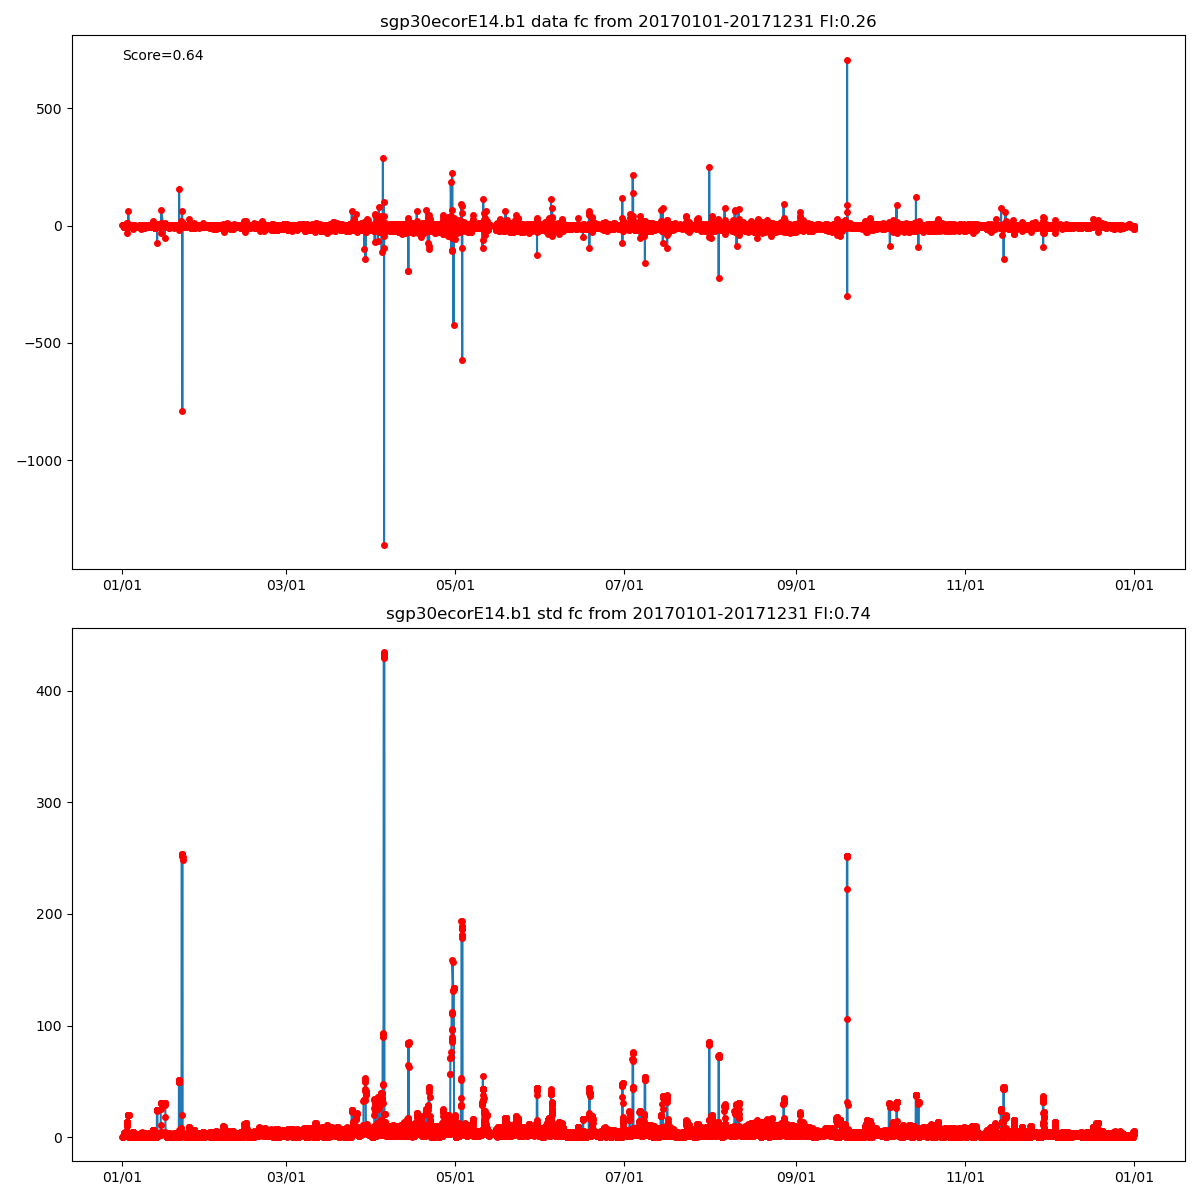
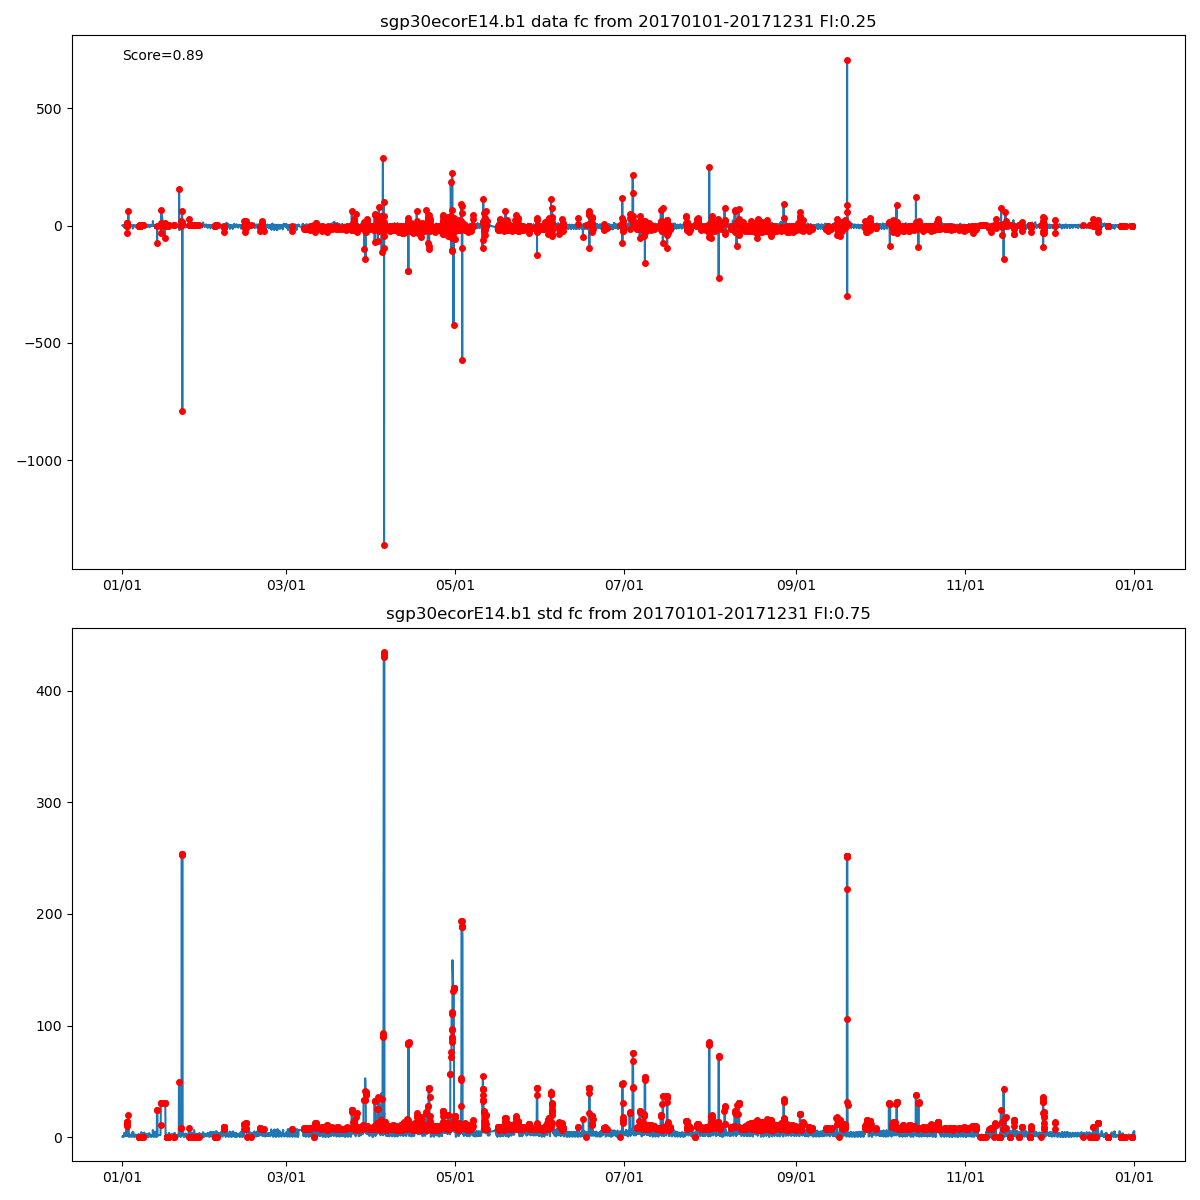
Ad

diff --git a/dqr_training/dqr_ml.py b/dqr_training/dqr_ml.py
@@ -30,7 +30,7 @@ min_max=0
 n_est=10
 depth=3
 ndays=10
-max_bad=25
+max_bad=1
 skip_dqrs=0
 period=10
 minp=1
